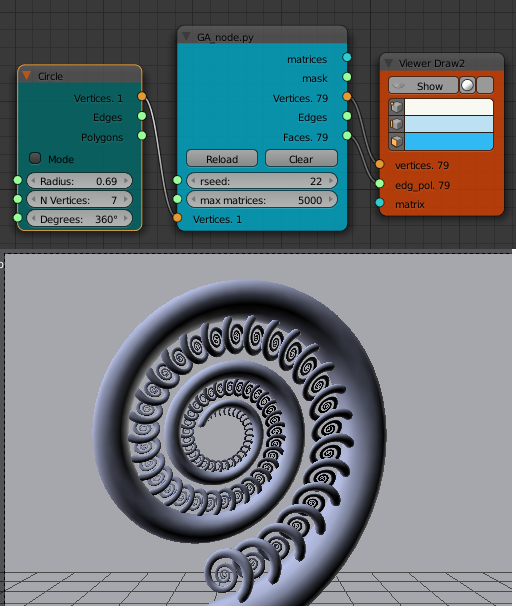
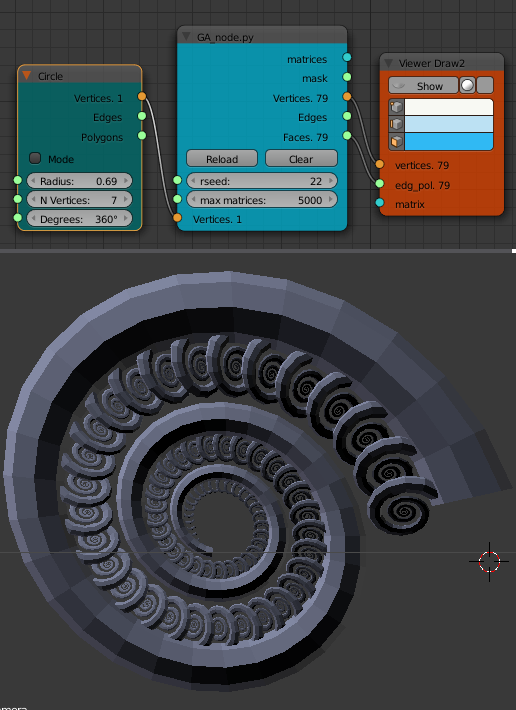
blender sverchok code 02

diff --git a/content/structure synth_meets_sverchok_02.md b/content/structure synth_meets_sverchok_02.md
@@ -1,0 +1,116 @@
+Title: Structure Synth meets Sverchok - Mesh mode
+Date: 2015-03-15 22:00
+Tags: make, think, blender, sverchok, structuresynth
+Category: think
+Author: elfnor
+
+![pounamu fern](/images/fern_30.png)
+
+In the previous [post]({filename}structure synth_meets_sverchok.md) I introduced the [Sverchok](http://nikitron.cc.ua/sverchok_en.html) scripted node I'd written to implement [Structure Synth](http://structuresynth.sourceforge.net/) generative art or lsystems inside Blender.
+
+In this post I'll cover a couple of features I've added to the basic node.
+
+##Mask output
+
+An xml rule set for the lsystem can have different objects in different instances. In the xml below there are two versions of the "R1" rule. These will be called randomly. The two different rules have opposite signs for the "ry" transform. This will cause wobbles in the structure. When it wobbles one way "s1" is added to the list of shapes and when it wobbles the other way "s2" is added.
+
+```xml
+<rules max_depth="20">
+    <rule name="entry">
+        <call count="100" transforms="rx 3.6" rule="R1"/>
+    </rule>
+    <rule name="R1">
+        <call transforms="sa 0.9 ry 6 tz 1" rule="R1"/>
+        <instance transforms="s 0.2 0.5 1" shape="s1"/>
+    </rule>
+    <rule name="R1">
+        <call transforms="sa 0.9 ry -6 tz 1" rule="R1"/>
+        <instance transforms="s 0.2 0.5 1" shape="s2"/>
+    </rule>
+</rules>
+```
+
+The names of these objects don't matter, they can be called anything in the xml.```LSystem_blender.py``` passes the names to the node as strings. The node then converts these strings to integers (that is (0, 1) for two different objects, (0, 1, 2) for three objects etc.). This mask can be used as input to a "Mask List" node to separate the matrices into two lists as shown below. This is simple for two objects but is a bit more complicated but doable for more.
+
+The "Levels List" on the "Mask List" node needs to be set to "2". That is because the outputs of the GA_node have been set up as a 2 level list. The first level corresponds to each arm of sub-part of the structure. The second level contains the actual output values. Examine the output with a "Viewer Text" node to help understand this.
+
+![GA node diagram with mask list](/images/mask_demo_01.blend.png)
+
+##Mesh output
+
+Using the matrices output allows a separate object to be placed at each location. The vertices input and the mesh (vertices, edges, faces) output "skins" the mesh into a much smaller number of objects. The vertices input should be a list of vertices such as that generated by the "Circle" node. It could also be a circle type object taking from the scene using the "Objects In" node. The list of vertices should be in order so they can be made into a ring with the last vertex joined to the first. That ring dosen't have to be planar.
+
+If the vertices are taken from an object in the scene the vertices can be repositioned in "EDIT" and the structure updated by going to "OBJECT" mode then clicking the "Update Node Tree" button.
+
+![GA tube nodes and render/screenshot](/images/Fern.blend.png)
+
+The output will not always be one mesh. If the rule set ends one 'arm' and goes back to start another 'arm' these two sub-parts will be separate meshes. Sometimes the mesh does not turn out how you would like. This can often be fixed by changing the rule set. 
+
+Often a mesh tube will turn out flat rather than being tube like. This can usually be fixed by either rotating the vertex ring in the scene or by adding a rotation transform to the "instance" commands in the rule set. 
+
+For example change ```<instance shape="s1"/> ``` to ```<instance transfroms="ry 90" shape="s1"/>```
+
+In other cases the mesh can be connected in the wrong order.
+
+My first attempt at the Fern structure had this effect.
+
+```xml
+<rules max_depth="2000">
+    <rule name="entry">
+        <call  rule="curl" />      
+    </rule>
+    
+    <rule name="curl" max_depth="80">
+        <call transforms="rx 12.5 tz 0.9 s 0.98 0.95 1.0" rule="curl"/>
+        <instance shape="box"/>       
+        <call transforms="tx 0.1 ty -0.45 ry 40 sa 0.25" rule="curlsmall" />  
+    </rule>
+        
+    <rule name="curlsmall" max_depth="80">
+        <call transforms="rx 25 tz 1.2 s 0.9 0.9 1.0" rule="curlsmall"/>
+        <instance shape="box"/>     
+    </rule>
+    
+</rules>
+```
+
+![fern wrong](/images/fern_wrong.blend.png)
+
+The following xml produces the result I was after that's shown with the node diagram above.
+
+```xml
+<rules max_depth="2000">
+    <rule name="entry">
+        <call  rule="curl1" />  
+        <call  rule="curl2" />      
+    </rule>
+    
+    <rule name="curl1" max_depth="80">
+        <call transforms="rx 12.5 tz 0.9 s 0.98 0.95 1.0" rule="curl1"/>
+        <instance shape="box"/>        
+    </rule>
+    
+    <rule name="curl2" max_depth="80">
+        <call transforms="rx 12.5 tz 0.9 s 0.95 0.95 1.0" rule="curl2"/>
+        <call transforms="tx 0.1 ty -0.45 ry 40 sa 0.25" rule="curlsmall" />     
+    </rule>    
+    
+    <rule name="curlsmall" max_depth="80">
+        <call transforms="rx 25 tz 1.2 s 0.9 0.9 1.0" rule="curlsmall"/>
+        <instance shape="box"/>     
+    </rule>    
+</rules>
+```
+
+Both sets of xml rules produce the same list of matrices just in a different order.
+
+The mesh output is very useful as further mesh operations or modifiers such as "Subdivision Surface" can then be used. Sub meshes can be joined together (CTRL-J) or booleans are sometimes successful if a single mesh is really required.
+
+-----------------------------------------------------------------------------------
+
+
+
+
+
+
+

diff --git a/content/structure synth_meets_sverchok.md b/content/structure synth_meets_sverchok.md
@@ -1,6 +1,6 @@
 Title: Structure Synth meets Sverchok - Generative Art inside Blender
 Date: 2015-03-08 22:00
-Tags: make, think, blender, sverchok
+Tags: make, think, blender, sverchok, structuresynth
 Category: think
 Author: elfnor
 
